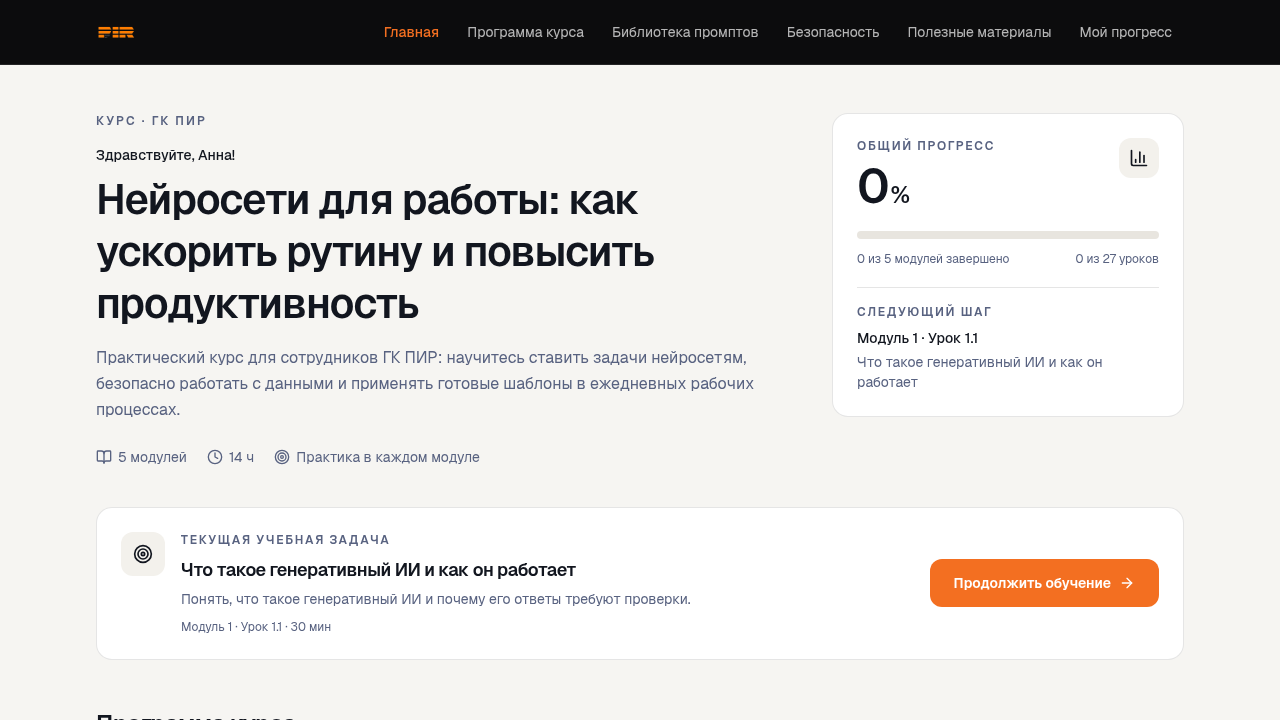
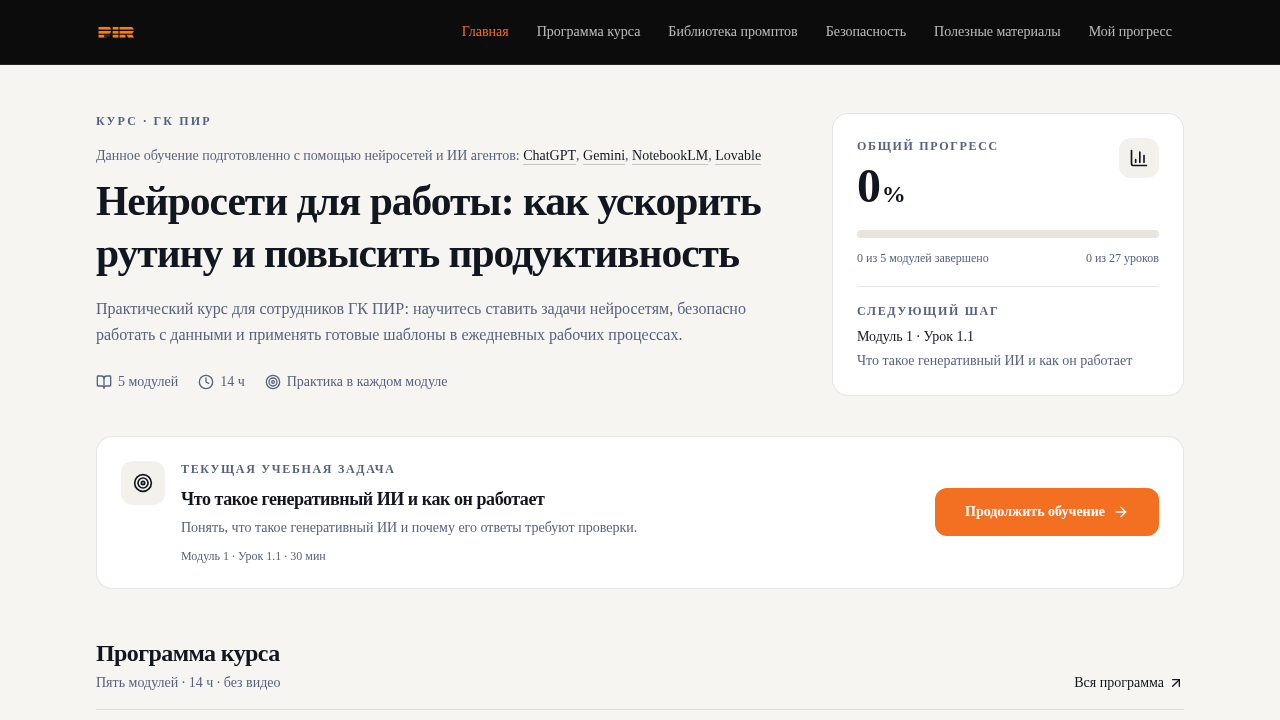
chore: implement Вместо приветствия добавь дисклеймер: "Данное обучение подготовленно с помощью нейросетей и ИИ агентов: ChatGPT, Gemi...

diff --git a/app/page.tsx b/app/page.tsx
@@ -50,8 +50,43 @@ export default async function HomePage() {
             <p className="text-xs font-semibold uppercase tracking-[0.18em] text-muted-foreground">
               Курс · ГК ПИР
             </p>
-            <p className="mt-4 text-sm font-medium text-foreground">
-              Здравствуйте, {course.userName}!
+            <p className="mt-4 text-sm leading-relaxed text-muted-foreground">
+              Данное обучение подготовленно с помощью нейросетей и ИИ агентов:{" "}
+              <a
+                href="https://chatgpt.com"
+                target="_blank"
+                rel="noopener noreferrer"
+                className="font-medium text-foreground underline decoration-black/20 underline-offset-4 transition-colors hover:text-[#f36f21]"
+              >
+                ChatGPT
+              </a>
+              ,{" "}
+              <a
+                href="https://gemini.google.com"
+                target="_blank"
+                rel="noopener noreferrer"
+                className="font-medium text-foreground underline decoration-black/20 underline-offset-4 transition-colors hover:text-[#f36f21]"
+              >
+                Gemini
+              </a>
+              ,{" "}
+              <a
+                href="https://notebooklm.google.com"
+                target="_blank"
+                rel="noopener noreferrer"
+                className="font-medium text-foreground underline decoration-black/20 underline-offset-4 transition-colors hover:text-[#f36f21]"
+              >
+                NotebookLM
+              </a>
+              ,{" "}
+              <a
+                href="https://lovable.dev"
+                target="_blank"
+                rel="noopener noreferrer"
+                className="font-medium text-foreground underline decoration-black/20 underline-offset-4 transition-colors hover:text-[#f36f21]"
+              >
+                Lovable
+              </a>
             </p>
             <h1 className="mt-2 text-3xl font-semibold leading-tight tracking-tight text-foreground sm:text-4xl lg:text-[2.6rem]">
               {course.title}

diff --git a/.vibecraft/docs/features.md b/.vibecraft/docs/features.md
@@ -9,9 +9,9 @@
 ### 1. Главная страница и навигация по курсу
 
 - **Цель:** пользователь за одно действие понимает, где он находится в обучении, и продолжает курс с того места, где остановился.
-- **Описание:** приветственный экран с названием курса «Нейросети для работы: как ускорить рутину и повысить продуктивность», кратким описанием, приветствием пользователя, индикатором общего прогресса, списком пяти модулей со статусами (не начат / в процессе / завершён), текущей учебной задачей и кнопкой продолжения. Постоянное меню: Главная, Программа курса, пять модулей, Библиотека промптов, Полезные материалы, Мой прогресс. Шапка оформлена в фирменном стиле ГК ПИР (чёрный и оранжевый) с логотипом ГК ПИР.
+- **Описание:** главный экран с названием курса «Нейросети для работы: как ускорить рутину и повысить продуктивность», кратким описанием, дисклеймером о подготовке обучения с помощью нейросетей и ИИ-агентов (ChatGPT, Gemini, NotebookLM, Lovable) со ссылками на сервисы вместо приветствия пользователя, индикатором общего прогресса, списком пяти модулей со статусами (не начат / в процессе / завершён), текущей учебной задачей и кнопкой продолжения. Постоянное меню: Главная, Программа курса, пять модулей, Библиотека промптов, Полезные материалы, Мой прогресс. Шапка оформлена в фирменном стиле ГК ПИР (чёрный и оранжевый) с логотипом ГК ПИР.
 - **Критерии приёмки:**
-  - На главной видны название курса, приветствие, общий прогресс в процентах и список всех пяти модулей с текущими статусами.
+  - На главной видны название курса, дисклеймер о подготовке с помощью ИИ со ссылками на ChatGPT, Gemini, NotebookLM и Lovable, общий прогресс в процентах и список всех пяти модулей с текущими статусами.
   - Кнопка продолжения ведёт к незавершённому уроку, а для нового пользователя — к первому уроку первого модуля.
   - Из любого экрана доступны меню курса, библиотека промптов и полезные материалы.
   - На главн��й отображается текущая учебная задача с переходом к ней.
